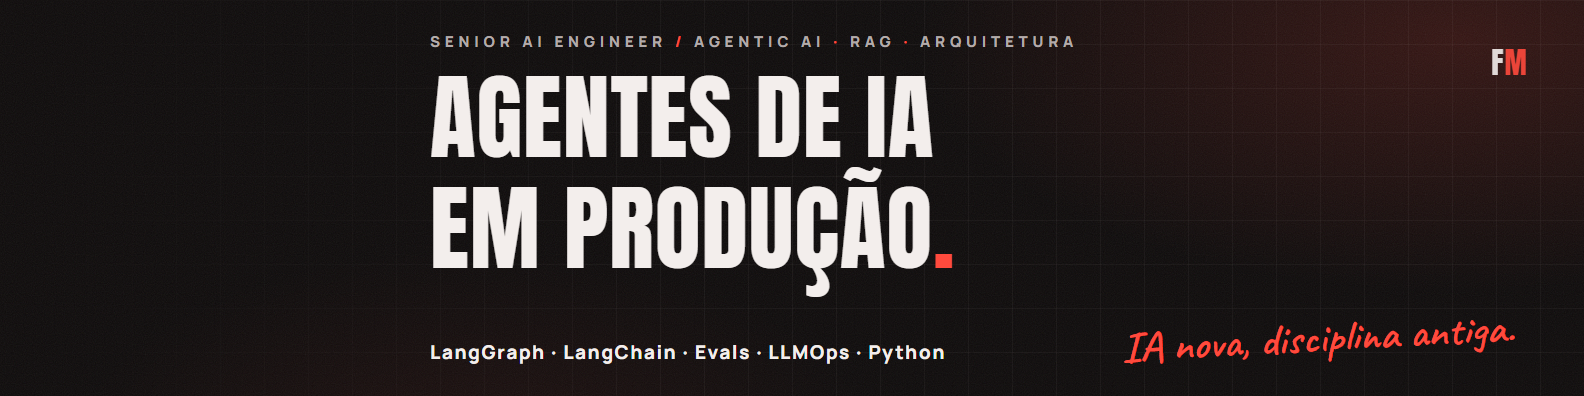
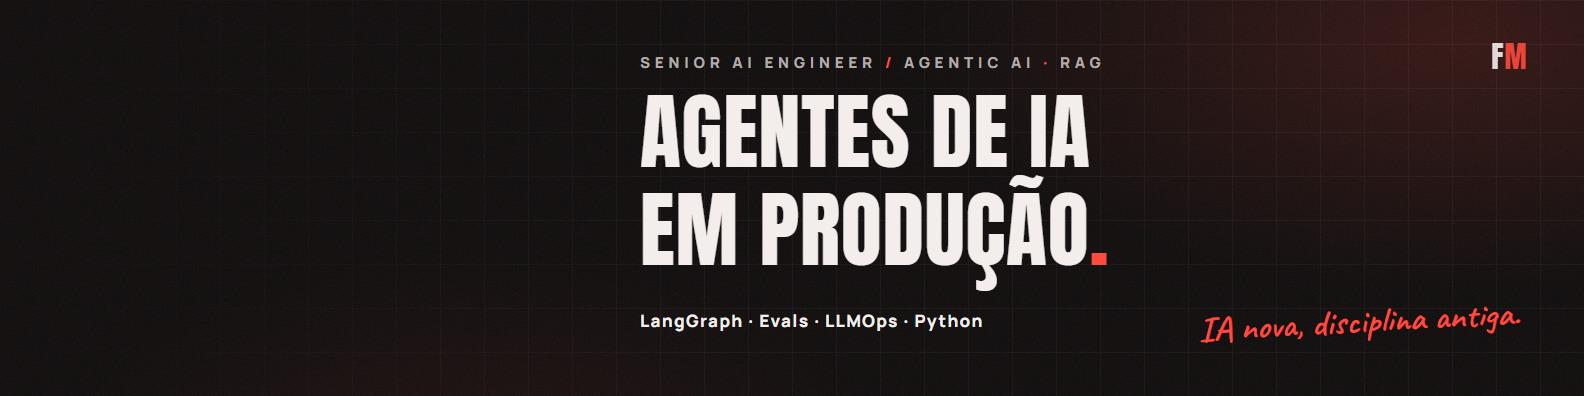
Capa do LinkedIn: texto à direita da foto, para aparecer inteiro no celular

diff --git a/fonte/linkedin/slides.html b/fonte/linkedin/slides.html
@@ -46,6 +46,14 @@
   .step .t { font-weight:800; font-size:24px; margin-top:4px; }
   .step .d { font-size:15px; color:var(--mute); margin-top:6px; line-height:1.35; }
 
+  /* slide 6: capa única, segura no celular (a foto cobre até ~40% da largura) */
+  #s6 .safe { left:640px; right:64px; }
+  #s6 .display { font-size:84px; margin-top:10px; line-height:1.16; }
+  #s6 .row { display:flex; align-items:center; justify-content:space-between; margin-top:20px; gap:24px; }
+  #s6 .url { font-size:17px; white-space:nowrap; }
+  #s6 .hand { font-size:36px; transform:rotate(-3deg); white-space:nowrap; }
+  #s6 .mark { top:34px; }
+
   /* slide 3 */
   #s3 .display { font-size:64px; margin-top:12px; }
   #s4 .lines { margin-top:20px !important; }
@@ -86,6 +94,19 @@
     <div class="display">Agentes de IA<br>em produção<span class="red">.</span></div>
     <div class="row">
       <div class="url">LangGraph · LangChain · Evals · LLMOps · Python</div>
+      <div class="hand">IA nova, disciplina antiga.</div>
+    </div>
+  </div>
+</section>
+
+<section class="slide" id="s6">
+  <div class="grid"></div><div class="grain"></div>
+  <div class="mark">F<i>M</i></div>
+  <div class="safe">
+    <div class="kick">Senior AI Engineer <b>/</b> Agentic AI <b>·</b> RAG</div>
+    <div class="display">Agentes de IA<br>em produção<span class="red">.</span></div>
+    <div class="row">
+      <div class="url">LangGraph · Evals · LLMOps · Python</div>
       <div class="hand">IA nova, disciplina antiga.</div>
     </div>
   </div>
